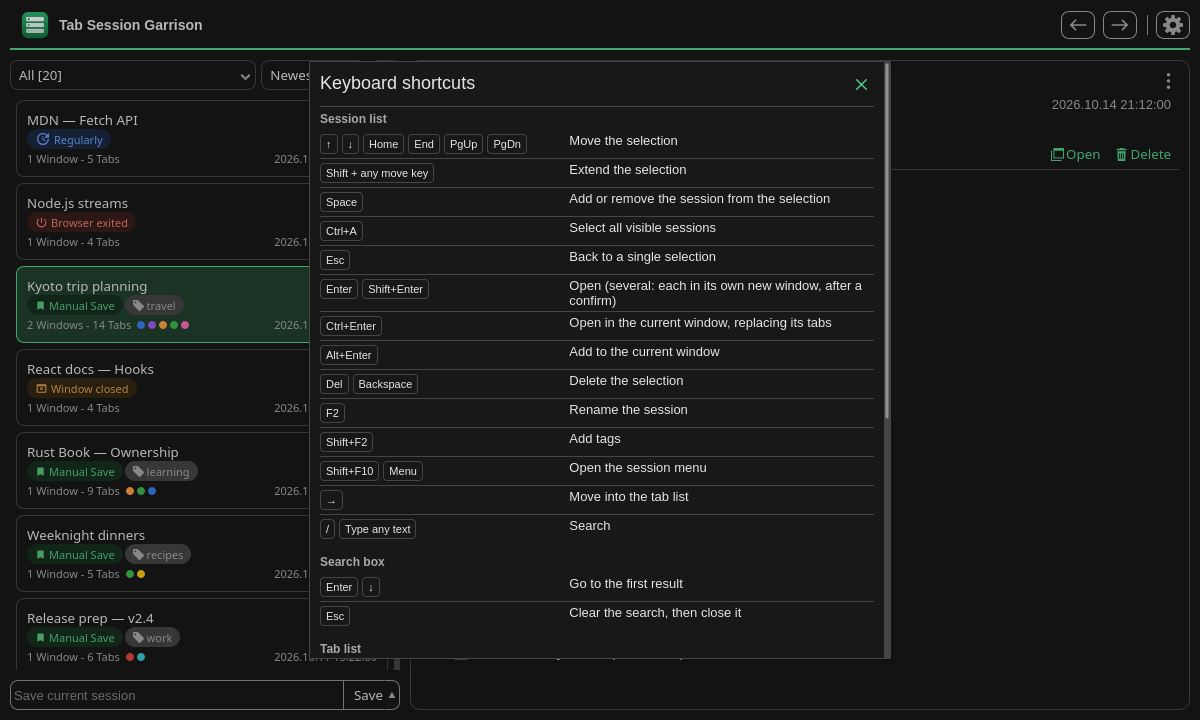
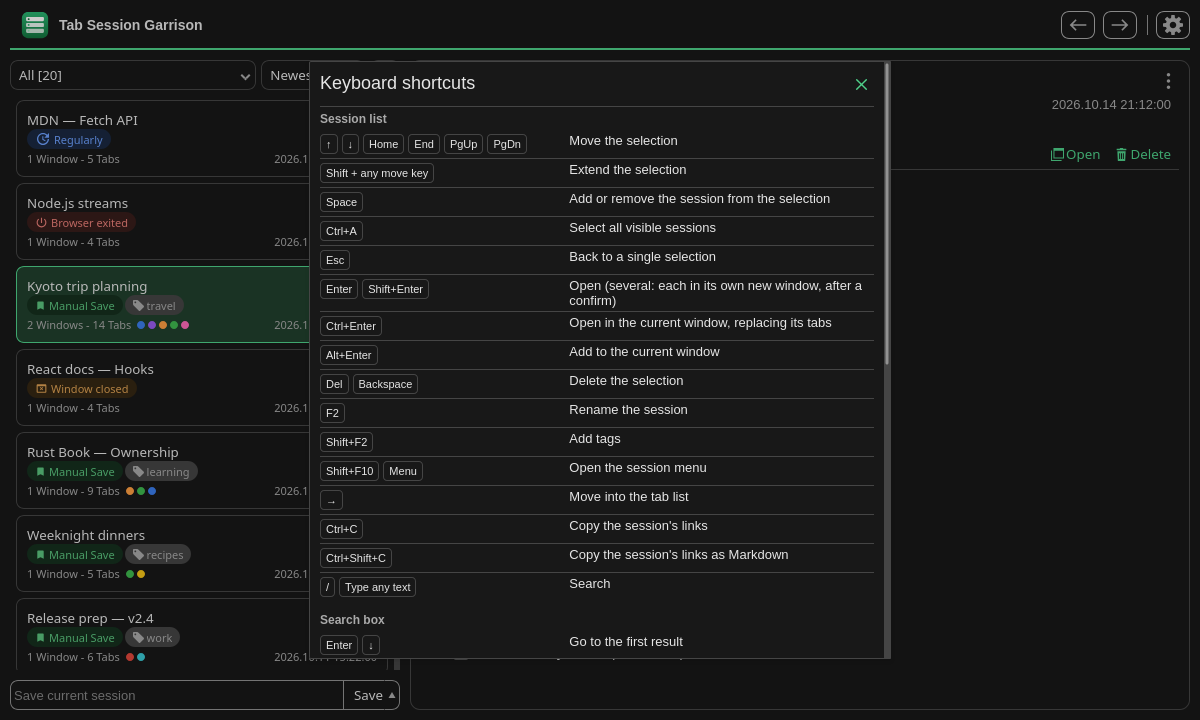
docs: Copy links on the website, README and screenshots

Changed region(s): [[0.4625, 0.7028, 0.6475, 0.8556], [0.2467, 0.7028, 0.3392, 0.9167], [0.4933, 0.8861, 0.555, 0.9167]]

diff --git a/docs/index.html b/docs/index.html
@@ -13,6 +13,7 @@
     --mark-bg: #ffe866; --mark-text: #1a1a1a;
     --live: #1f9d5f; --next: #c27a00; --later: #6b7a71;
     --shadow: 0 20px 50px rgba(20, 60, 40, .16);
+    color-scheme: light dark;
   }
   @media (prefers-color-scheme: dark) {
     :root {
@@ -176,6 +177,25 @@
   .keys span { display: block; color: var(--text); font-weight: 600; margin-bottom: 4px; }
   .keys p { margin: 0; }
 
+  /* Copy links */
+  .copy { display: grid; grid-template-columns: minmax(0, 1.35fr) minmax(0, 1fr); gap: 22px; align-items: start; margin-top: 8px; }
+  @media (max-width: 760px) { .copy { grid-template-columns: minmax(0, 1fr); } }
+  .copy .shot { margin: 0; }
+  .clip { background: var(--surface); border: 1px solid var(--border); border-radius: 14px; overflow: hidden; }
+  .clip-head { display: flex; align-items: center; gap: 8px; padding: 10px 12px; border-bottom: 1px solid var(--border); background: var(--surface-2); flex-wrap: wrap; }
+  .clip-head .label { font-size: .8rem; color: var(--muted); margin-right: auto; }
+  .seg { display: inline-flex; border: 1px solid var(--border); border-radius: 999px; overflow: hidden; }
+  .seg button { font: 600 .8rem/1 system-ui, sans-serif; padding: 7px 12px; border: 0; background: var(--surface); color: var(--muted); cursor: pointer; }
+  .seg button[aria-pressed="true"] { background: var(--accent); color: var(--on-accent); }
+  .seg button:focus-visible { outline: 2px solid var(--accent); outline-offset: -2px; }
+  .clip pre { margin: 0; padding: 14px; font: .8rem/1.65 ui-monospace, "SF Mono", Menlo, Consolas, monospace; overflow-x: auto; white-space: pre; scrollbar-color: var(--border) transparent; scrollbar-width: thin; }
+  .clip-foot { padding: 10px 14px; border-top: 1px solid var(--border); font-size: .85rem; color: var(--muted); }
+  .clip-foot b { color: var(--accent); font-weight: 600; }
+  .copy-points { list-style: none; margin: 18px 0 0; padding: 0; display: grid; gap: 10px; }
+  .copy-points li { color: var(--muted); font-size: .92rem; padding-left: 18px; position: relative; }
+  .copy-points li::before { content: ""; position: absolute; left: 2px; top: .62em; width: 6px; height: 6px; border-radius: 50%; background: var(--accent); }
+  .copy-points b { color: var(--text); font-weight: 600; }
+
   footer.wrap { border-top: 1px solid var(--border); color: var(--muted); font-size: .9rem; padding: 36px 16px 48px; }
   footer p { margin: 6px 0; }
 </style>
@@ -205,13 +225,14 @@
   <nav>
     <a href="#search">Search</a>
     <a href="#roadmap">Roadmap</a>
+    <a class="opt" href="#copy">Copy links</a>
     <a class="opt" href="#keyboard">Keyboard</a>
     <a class="opt" href="https://github.com/superuser-miguel/Tab-Session-Garrison">GitHub</a>
   </nav>
 </div>
 
 <header class="hero wrap">
-  <span class="pill"><span class="dot"></span>New in 0.3.4 — "quoted phrase" search</span>
+  <a class="pill" href="#copy" style="text-decoration:none"><span class="dot"></span>New in 0.3.6: copy a saved group's links</a>
   <h1>Find <em>any tab</em> you ever saved.</h1>
   <p class="lede">
     A Firefox session manager built around search. Thousands of saved sessions are only
@@ -343,6 +364,39 @@
   </div>
 </section>
 
+<section class="wrap" id="copy">
+  <span class="eyebrow">New in 0.3.6</span>
+  <h2>Get the links back out.</h2>
+  <p class="sub">
+    Right-click a saved tab group, window, session or tab and copy its links, without opening
+    a single tab. That works for old groups too, including the ones Firefox's own saved groups
+    no longer have.
+  </p>
+  <div class="copy">
+    <img class="shot" src="screenshots/copy-links.png" width="1200" height="720"
+         alt="The right-click menu of a saved tab group named Stay, offering Copy 2 links and Copy as Markdown">
+    <div>
+      <div class="clip">
+        <div class="clip-head">
+          <span class="label">On your clipboard</span>
+          <div class="seg" role="group" aria-label="Format">
+            <button type="button" id="fmt-links" aria-pressed="true">Links</button>
+            <button type="button" id="fmt-md" aria-pressed="false">Markdown</button>
+          </div>
+        </div>
+        <pre id="clip-text"></pre>
+        <div class="clip-foot"><b>Copied 9 links</b> · 1 duplicate left out</div>
+      </div>
+      <ul class="copy-points">
+        <li><b>Links</b> puts one link per line, the format Settings → Import URL list reads, so a copied group can become a new session.</li>
+        <li><b>Markdown</b> gives each tab group its own heading, ready for notes apps like Obsidian.</li>
+        <li><b>Keys:</b> <kbd>Ctrl</kbd>+<kbd>C</kbd> on a focused tab, group or session; add <kbd>Shift</kbd> for Markdown.</li>
+        <li>Nothing opens and nothing leaves your computer. It only writes to the clipboard.</li>
+      </ul>
+    </div>
+  </div>
+</section>
+
 <section class="wrap" id="keyboard">
   <span class="eyebrow">Keyboard first</span>
   <h2>Never reach for the mouse.</h2>
@@ -360,6 +414,7 @@
     <div><span><kbd>→</kbd> <kbd>←</kbd></span><p>Into the tab list and back</p></div>
     <div><span><kbd>F2</kbd> · <kbd>Shift</kbd>+<kbd>F2</kbd></span><p>Rename · add tags</p></div>
     <div><span><kbd>Del</kbd> · <kbd>Ctrl</kbd>+<kbd>Z</kbd></span><p>Delete · undo</p></div>
+    <div><span><kbd>Ctrl</kbd>+<kbd>C</kbd> · <kbd>Ctrl</kbd>+<kbd>Shift</kbd>+<kbd>C</kbd></span><p>Copy links · as Markdown</p></div>
   </div>
 </section>
 
@@ -401,6 +456,27 @@
 </footer>
 
 <script>
+// Copy links: what the clipboard holds for the first window of the demo session.
+(() => {
+  const groups = [
+    ["Flights", [["Tokyo to Kyoto by Shinkansen — Rome2Rio", "https://www.rome2rio.com/s/Tokyo/Kyoto"], ["Cheap flights to Tokyo (HND) — KAYAK", "https://www.kayak.com/flight-routes/HND"]]],
+    ["Stay", [["Ryokan stays in Gion, Kyoto — Booking.com", "https://www.booking.com/region/jp/gion.html"], ["Hotels near Kyoto Station — Booking.com", "https://www.booking.com/district/jp/kyoto/kyotostation.html"]]],
+    ["Food", [["Nishiki Market — Kyoto Travel Guide", "https://www.japan-guide.com/e/e3931.html"]]],
+    ["Itinerary", [["Kyoto Itinerary: 3 Days — japan-guide.com", "https://www.japan-guide.com/e/e3970.html"], ["Fushimi Inari Shrine — japan-guide.com", "https://www.japan-guide.com/e/e3915.html"], ["Nishiki Market (again)", "https://www.japan-guide.com/e/e3931.html"]]],
+    [null, [["Japan Rail Pass — Wikipedia", "https://en.wikipedia.org/wiki/Japan_Rail_Pass"], ["Kyoto — OpenStreetMap", "https://www.openstreetmap.org/#map=13/35.0116/135.7681"]]]
+  ];
+  const seen = new Set();
+  const kept = groups.map(([name, tabs]) => [name, tabs.filter(([, url]) => !seen.has(url) && seen.add(url))]);
+  const links = kept.flatMap(([, tabs]) => tabs.map(([, url]) => url)).join("\n");
+  const md = kept.map(([name, tabs]) => (name ? `## ${name}\n` : "") + tabs.map(([t, u]) => `- [${t}](${u})`).join("\n")).join("\n\n");
+  const pre = document.getElementById("clip-text");
+  const bL = document.getElementById("fmt-links"), bM = document.getElementById("fmt-md");
+  const show = isMd => { pre.textContent = isMd ? md : links; bL.setAttribute("aria-pressed", String(!isMd)); bM.setAttribute("aria-pressed", String(isMd)); };
+  bL.addEventListener("click", () => show(false));
+  bM.addEventListener("click", () => show(true));
+  show(false);
+})();
+
 // Same rules as src/common/searchQuery.js in the extension.
 const QUOTES = new Set(['"', "“", "”", "„"]);
 function parseSearchQuery(query) {

diff --git a/tools/screenshots/shoot.js b/tools/screenshots/shoot.js
@@ -65,7 +65,17 @@ async function main() {
         await save(`phrase-search${sfx}.png`);
       }
 
-      if (variant === "amo") continue; // shots 4–5 are README-only
+      if (want("copy-links")) {
+        // the right-click menu of a saved tab group ("Stay")
+        await openPopup(w, h);
+        await clickRow("Kyoto trip planning");
+        const header = (await driver.findElements(By.css(".groupHeader")))[1];
+        await driver.actions().contextClick(header).perform();
+        await sleep(600);
+        await save(`copy-links${sfx}.png`);
+      }
+
+      if (variant === "amo") continue; // the shots below are README-only
 
       if (want("session-types")) {
         await openPopup(w, h);

diff --git a/README.md b/README.md
@@ -28,6 +28,16 @@ Everything Tab Session Manager does — save and restore the state of windows an
 - **Add a session to your current window as a tab group** — drop a saved session's tabs into the window you're in, tidied into one named group (and it preserves the session's own groups when it already has them)
 - **Phantom-group masking** — older auto-saves that captured stray groups from other windows are cleaned up at display time, non-destructively
 
+### Copy links
+
+- **Copy a saved group's links without opening it** — right-click a tab-group header in the tab list (or use its copy button) and pick **Copy N links** or **Copy as Markdown**. The same choices are in the window menu, the session menu and each tab's right-click menu
+- Works for **any group the extension has saved**, including old groups that Firefox's own saved groups no longer have
+- **Links** puts one link per line, the format **Settings → Import URL list** reads, so a copied group can become a new session. **Markdown** gives each tab group a heading (and each window, for a whole session), ready for notes apps like Obsidian
+- Duplicate links are copied once and the notice says how many were left out (switch it off in Settings → Popup). Tabs that were waiting to load are copied as their real link, not the placeholder page
+- **Keys:** Ctrl/⌘ + C on a focused tab, group header or session; add Shift for Markdown
+
+![The right-click menu of a saved tab group, offering Copy 2 links and Copy as Markdown](docs/screenshots/copy-links.png)
+
 ### Search
 
 - **Exact phrases** — put words in quotes (`"release notes"`) to find that phrase inside a single tab title, session name or group name. Without quotes, each word can match anywhere in the session. An unfinished quote counts as a phrase while you type, and curly quotes work too
@@ -97,12 +107,13 @@ Everything works without the mouse. Press **?** in the popup for this list, or s
 | F2 | Rename the session |
 | Shift + F2 | Add tags |
 | Shift + F10 / Menu key | Open the session menu |
+| Ctrl/⌘ + C · Ctrl/⌘ + Shift + C | Copy the session's links · as Markdown |
 | → | Move into the tab list |
 | / or just start typing | Search (`"` starts a phrase) |
 
 **Search box:** Enter or ↓ goes to the first result; Esc clears the search, then closes it.
 
-**Tab list:** ↑ ↓ Home End move between tabs, Enter opens the tab, Delete removes it from the session, ← or Esc goes back to the session list.
+**Tab list:** ↑ ↓ Home End move between tabs and tab-group headers, Enter opens the tab, Delete removes it from the session, Ctrl/⌘ + C copies the links of the focused tab, group or window (add Shift for Markdown), Shift + F10 opens its menu, ← or Esc goes back to the session list.
 
 **Menus and dialogs:** ↑ ↓ move between menu items, Esc closes.
 

diff --git a/tools/screenshots/README.md b/tools/screenshots/README.md
@@ -7,6 +7,7 @@ headless Firefox with a throwaway profile. Your real Firefox profiles are never 
 npm run build                       # in the repo root: refreshes temp/firefox
 cd tools/screenshots
 npm install                         # first time only (selenium-webdriver + geckodriver)
+GECKODRIVER_CACHE_DIR=$PWD/bin node -e 'require("geckodriver").download("0.37.1")'   # first time only
 node shoot.js                       # writes into docs/screenshots/
 node shoot.js "" ./out              # or into ./out to review first
 ONLY=phrase-search,settings node shoot.js "" ./out   # just some shots
@@ -16,14 +17,14 @@ ONLY=phrase-search,settings node shoot.js "" ./out   # just some shots
   session types, tags, tab groups, multi-window sessions). Edit it, then
   `node make-demo-data.js`.
 - Shots: `list-and-details`, `multi-select`, `phrase-search` (1200×720, plus 1280×800
-  `-amo` versions for the store), `session-types` (a crop of the list), `keyboard`
+  `-amo` versions for the store), `copy-links` (a saved group's right-click menu, plus `-amo`), `session-types` (a crop of the list), `keyboard`
   (the "?" cheat sheet) and `settings`.
 
 ## Keyboard test
 
 `node keytest.js` presses every popup key on the demo data and checks the result
 (selection, search, cheat sheet, rename/tag dialogs, menus, tab list, delete + undo,
-the Shortcuts page, the "can not be opened" reason and the failed-save notice). Run it
+copy links from a tab, group header and session, the Shortcuts page, the "can not be opened" reason and the failed-save notice). Run it
 before each release; it exits non-zero on any failure. `harness.js` is the shared setup.
 - geckodriver must run with `--allow-system-access` (shoot.js does this), or Firefox
   157+ refuses to open the extension's pages. Puppeteer can't drive extension pages
